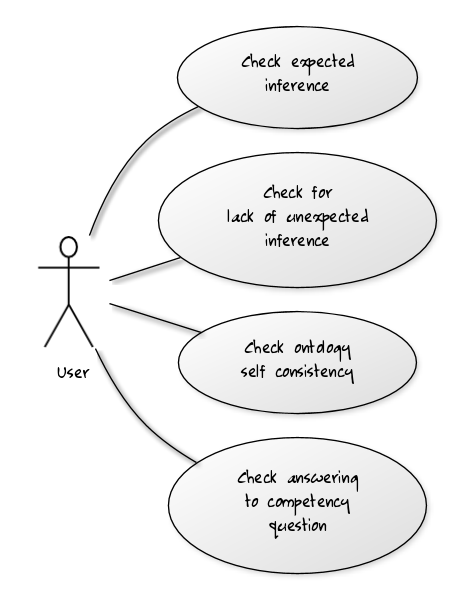
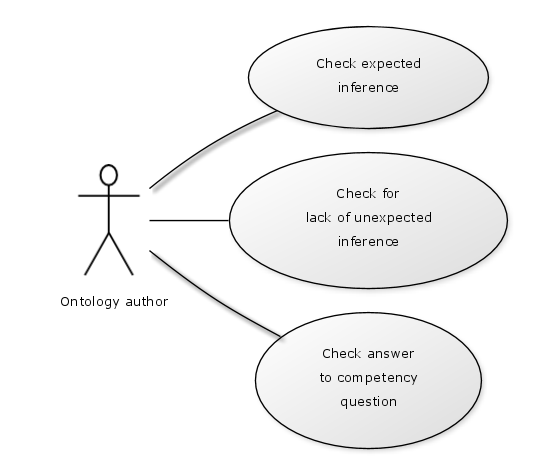
fixing requirements

diff --git a/project_report/report.tex b/project_report/report.tex
@@ -36,7 +36,7 @@ test-write-refactor cycle.
 TDD is a safe methodology to develop programs, where we can be sure that changes do not
 introduce bugs or unexpected behavior by running our automated tests for our code. Moreover,
 by doing tests first, we can check our architecture decisions simply by being clients of our own code
-in our tests. Finally (?), the tests can be seen as a documentation about the code.
+in our tests. And finally the tests can also be seen as a documentation about the code.
 
 Almost all modern programming languages have unit test frameworks that enable to run
 automated tests for your code and engage into a TDD process for software, such as the xUnit
@@ -65,14 +65,12 @@ derived and be aware of unexpected inferred conclusions.
 Moreover, competency questions, as defined by some methodologies for Ontology Engineering like Methontology \cite{lopez99},
 describe what kind of knowledge the resulting ontology is supposed to answer. These questions can always be formalized in
 a query language (like SPARQL). By formalizing the queries and the expected answers, a system can automatically checks if
-the ontology meets the requirements stated with the competency questions.
+the ontology meets the requirements stated in the competency questions.
 
-% TODO example
-
-To answer these needs in this report is proposed a novel Test Driven Development tool for building RDF/OWL ontologies, called
+To answer these needs in this report a novel Test Driven Development tool for building RDF/OWL ontologies is proposed, called
 Diderot. This report is organized as follows: the Chapter \ref{system} describes the requirements, use cases, architecture and
-how Diderot was built. In Chapter \ref{manual} it is described how to use Diderot in all its use cases, including installation.
-Finally, in Chapter \ref{conclusion} we present concluding remarks and future goals for the project.
+how Diderot was built. In Chapter \ref{manual} it is described how to use Diderot in all its use cases, including installation and
+documentation. Finally, in Chapter \ref{conclusion} we present concluding remarks and future goals for the project.
 
 \chapter{System Description}
 \label{system}
@@ -90,8 +88,6 @@ The main goals of Diderot is to provide a simple interface to test small portion
         given as input.
     \item Check for lack of unexpected inferences. The system must guarantee that no unexpected inferences are
         derived from the target ontology.
-    \item Self consistency check. The system must check if rules stated in the ontology do not
-        contradict each other thus leading to guaranteed ontology consistency.
     \item Answering competency questions. The system must check if answers to competency questions are
         the same as users expect, given the target ontologies and the knowledge base which uses the ontology.
 \end{itemize}
@@ -123,7 +119,7 @@ in Figure \ref{figUseCase}.
     \centering
     \label{figUseCase}
     \caption{Use case diagram for Diderot}
-    \includegraphics[scale=0.5]{fig/use_case_diagram.png}
+    \includegraphics[scale=0.75]{fig/use_case_diagram.png}
 \end{figure}
 
 Following, the use cases will be described as user stories \cite{beck04}.
@@ -137,12 +133,7 @@ functional inferences.
 \subsubsection{Check for lack of Unexpected Inference}
 
 As a ontology developer, I want to check for lack of unexpected inferences so that unwanted facts
-derived from the ontology do no harm ontology consistency or its uses.
-
-\subsubsection{Check Ontology Self Consistency}
-
-As a ontology developer, I want to check ontology for self consistency so that inferences are able to
-function properly.
+derived from the ontology do no harm ontology uses.
 
 \subsubsection{Check Answering to Competency Question}
 
@@ -160,7 +151,7 @@ In Diderot's test cases, assertions (in the \texttt{assertion} module) are used 
 Finally, assertions use the \texttt{inference} module to trigger inferences in \texttt{FuXi}, a inference machine written in Python.
 \texttt{Fuxi} uses rules that express RDF and OWL semantics to perform its inferences.
 
-\texttt{RDFLib} and the \texttt{utils} package are used through all the code to perform utilitary functions such as parsing of ontologies written in Turtle format for RDF, checking if a \texttt{RDFLib graph} object contains a subset of triples of another object and so on.
+\texttt{RDFLib} and the \texttt{utils} package are used through all the code to perform utilitary functions such as parsing of ontologies written in Turtle format for RDF, checking if a \texttt{RDFLib graph} object contains a subset of triples of another object, performing SPARQL queries in memory and so on.
 
 \begin{figure}[!hbt]
     \centering
@@ -183,14 +174,7 @@ and \url{http://github.com/rails/rails}}.
 Git version control was used in the software development, as it is the
 default system used in Github and currently the most complete and popular version control system.
 
-An example of the Github page for the project is seen in Figure \ref{figGithub}. In the inferior part of the figure we can see a build status badge (on green), stating that the build is passing. This is another agile development tecnhique used in Diderot: Continuos Integration \cite{beck04}. Every change pushed into Diderot's repository on github triggers automatically a run on the automated tests (fully explained in Section \ref{tests}), using the Travis CI\footnote{Available at \url{http://www.travis-ci.org/}} tool.
-
-\begin{figure}[!hbt]
-    \centering
-    \label{figGithub}
-    \caption{Github page of Diderot}
-    \includegraphics[scale=0.4]{fig/github.png}
-\end{figure}
+We have also connected the Github project to a Continuous Integration tool\cite{beck04}. Every change pushed into Diderot's repository on github triggers automatically a run on the automated tests (fully explained in Section \ref{tests}), using the Travis CI\footnote{Available at \url{http://www.travis-ci.org/}} tool. A badge in Diderot's README file on Github presents if the build is passing or not.
 
 As a software development methodology the Extreme Programming \cite{beck04} was chosen, with a focus on Test Driven
 Development. It would be rather contradictory to build a TDD tool without using the methodology in its own development.
@@ -214,13 +198,12 @@ In the Test Driven Development used to create Diderot different kinds of tests w
 
 \subsubsection{Unit Tests}
 
-Currently, Diderot has XXX unit tests, covering 100\% of the code\footnote{Using coverage tool, available at \url{https://pypi.python.org/pypi/coverage}}.
+Currently, Diderot has 42 unit tests, covering 100\% of the code\footnote{Coverage percentage is extracted using coverage tool, available at \url{https://pypi.python.org/pypi/coverage}}.
 Not only all the lines are tested, but all code branches (e.g. all conditional flows).
 
 \subsubsection{Functional Tests}
 
-Currenly, Diderot has XXX functional tests, covering XX\% of the code.
-Functional tests cover broader functionalities such as asserting correct inference using different OWL capabilities.
+Currenly, Diderot has 8 functional tests, covering broader functionalities such as asserting correct inference using different OWL capabilities.
 
 \subsubsection{Acceptance Tests}
 
@@ -240,6 +223,22 @@ The documentation is available online at \url{https://diderot.readthedocs.org}.
 Using sphinx tool\footnote{Available at \url{http://sphinx-doc.org/}}, it was created documentation using
 reStructuredText, a simple format to write documentation.
 Sphinx compile the \texttt{.rst} files into HTML files that create a browsable and very usable documentation.
+The main page of Diderot's documentation is shown in Figure \ref{figDocs}.
+A use example documentation is shown in Figure \ref{figDocs2}
+
+\begin{figure}[!hbt]
+    \centering
+    \label{figDocs}
+    \caption{Documentation main page}
+    \includegraphics[scale=0.4]{fig/documentation.png}
+\end{figure}
+
+\begin{figure}[!hbt]
+    \centering
+    \label{figDocs2}
+    \caption{User manual for checking expected inference use case}
+    \includegraphics[scale=0.4]{fig/documentation2.png}
+\end{figure}
 
 Besides the user documentation, API documentation was created automatically by using docstring code (i.e. comments on method headers) and
 the autodoc Sphinx plugin.

diff --git a/setup.py b/setup.py
@@ -15,6 +15,6 @@ setup(
     url = 'http://github.com/icaromedeiros/diderot',
     platforms = [ 'Python 2.6 and newer' ],
     install_requires=[
-        "FuXi==1.4.1.production"
+        "FuXi==1.4.1.production", "sure==1.2.2"
     ]
 )
